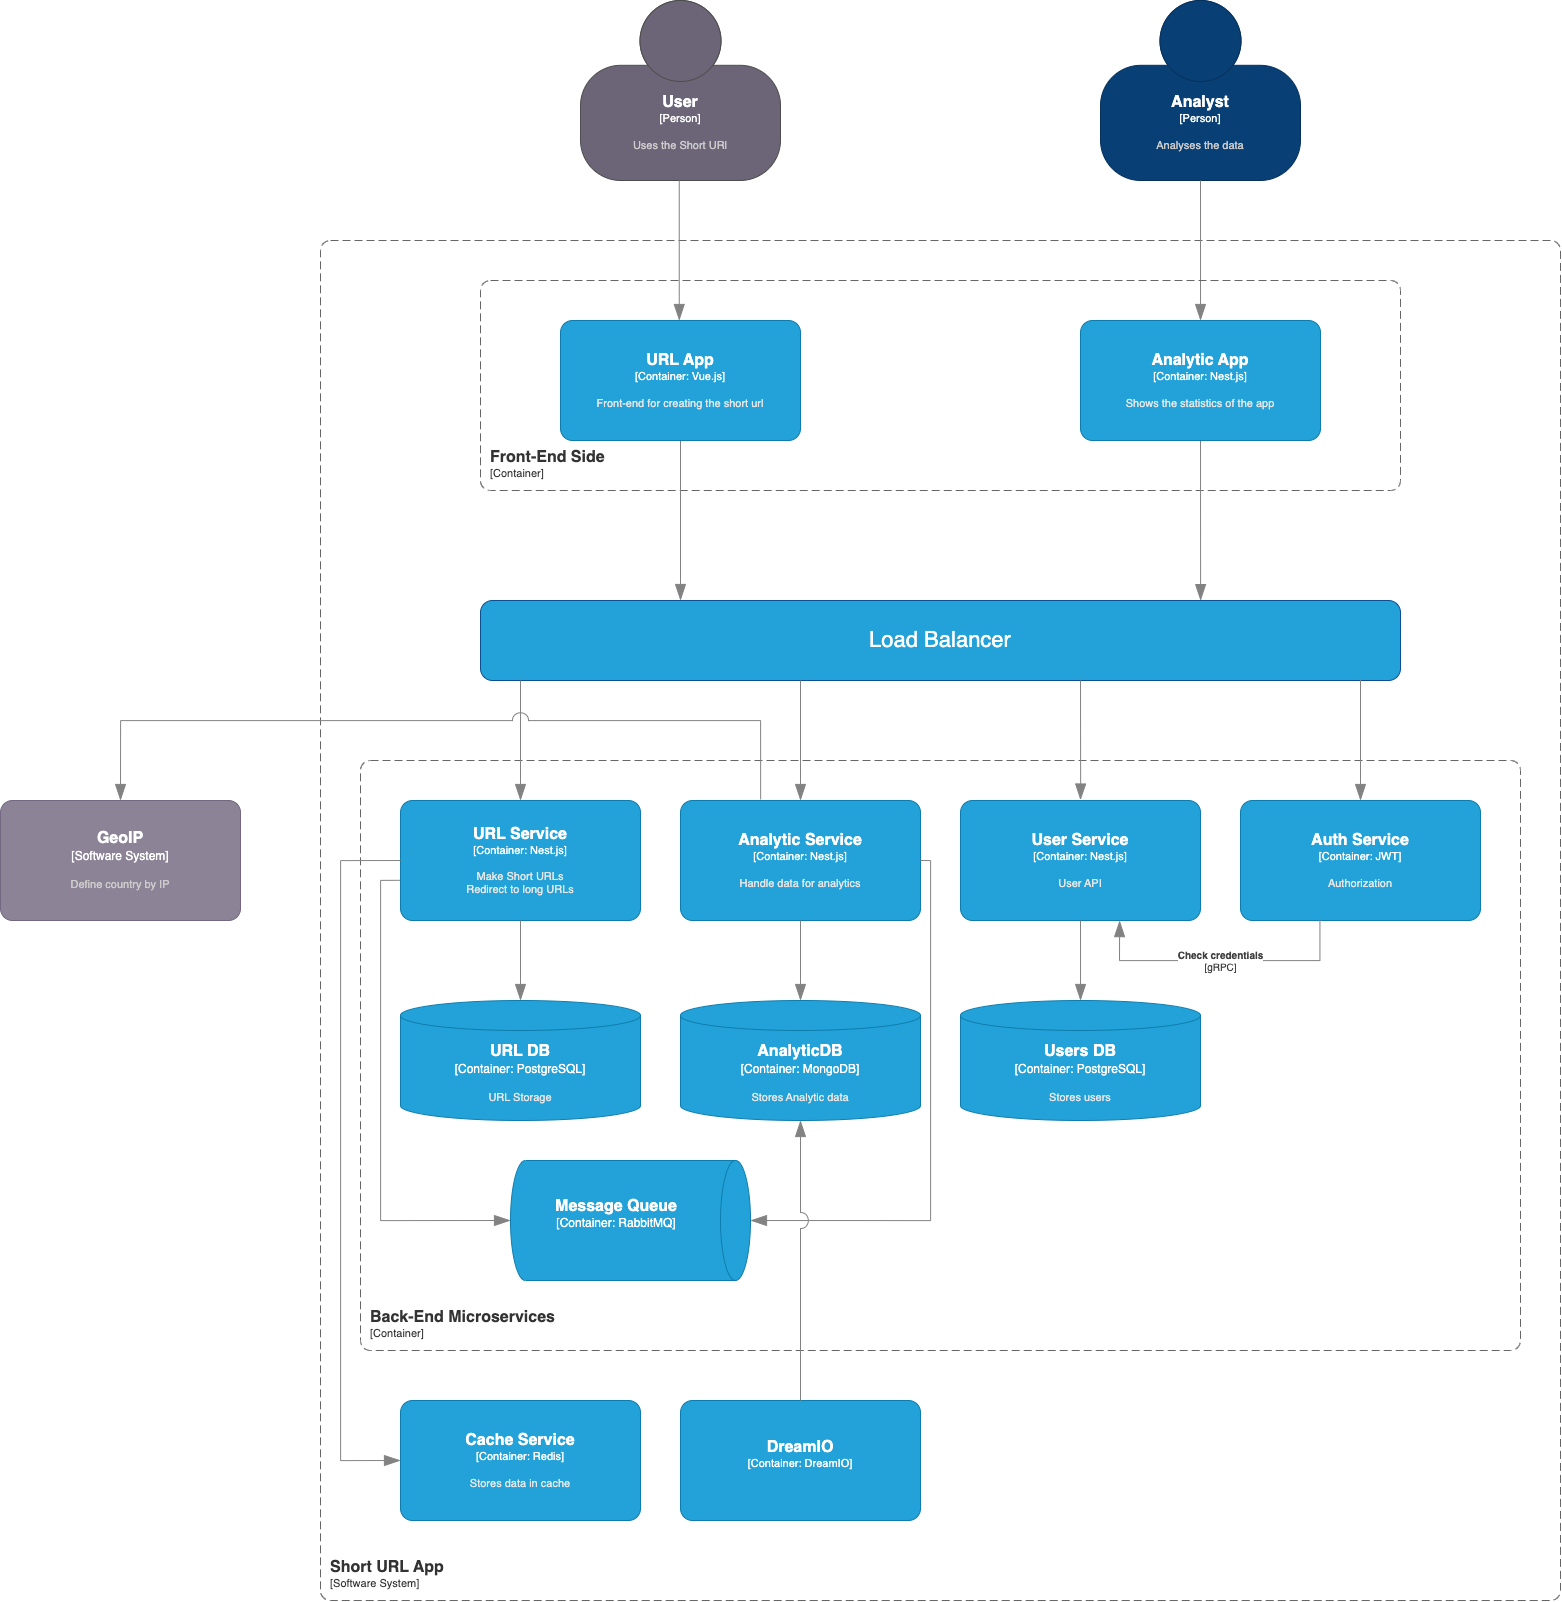
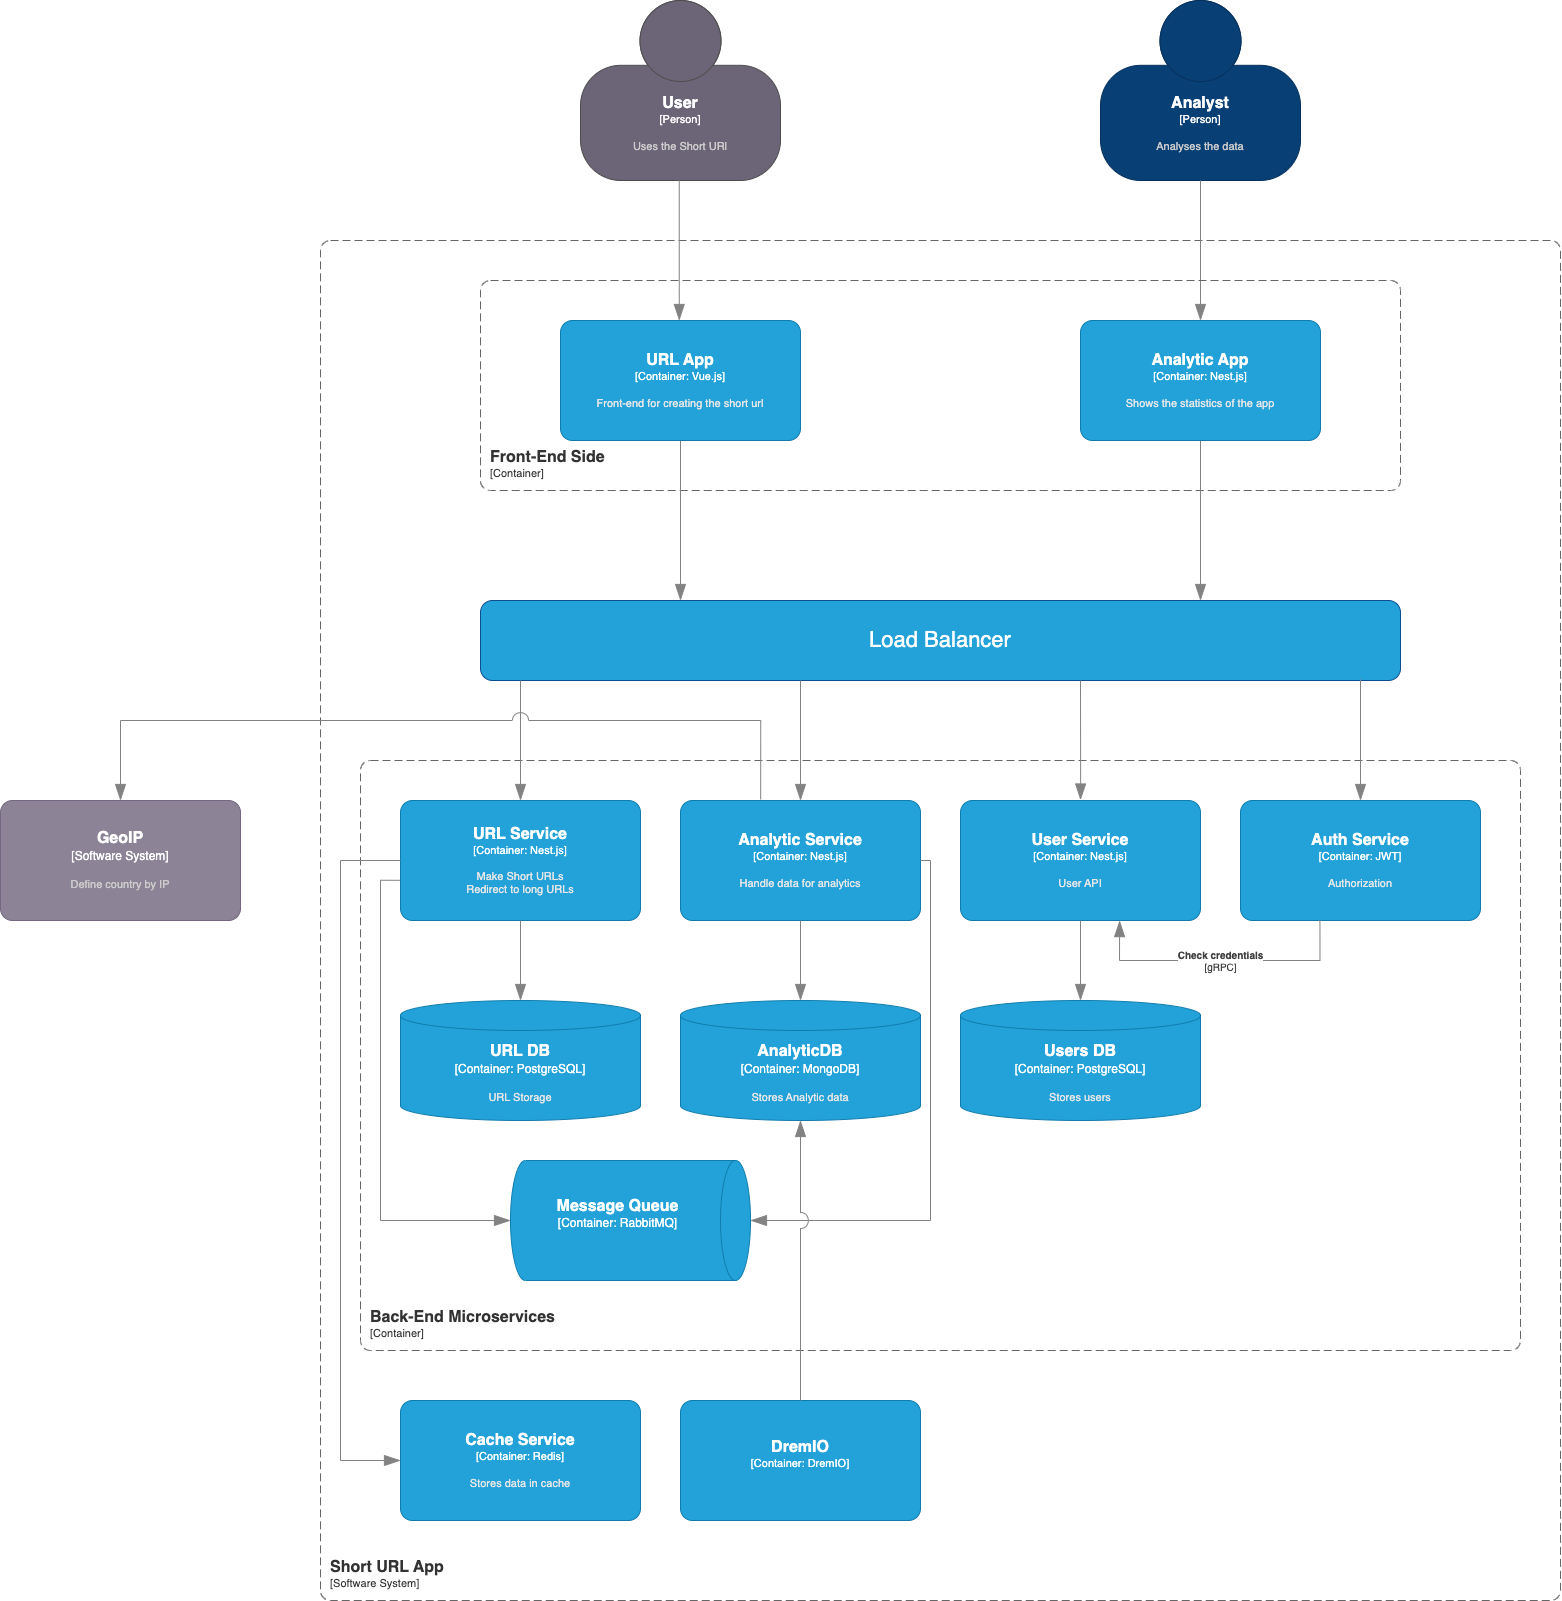
feat(analytics): create url analytics
- POST `/analytics/url` has been created
- updated doc typos

Closes #79

diff --git a/apps/analytics/src/analytics.controller.ts b/apps/analytics/src/analytics.controller.ts
@@ -1,12 +1,29 @@
-import { Controller, Get } from '@nestjs/common';
+import { Controller, Post, Body, UseFilters } from '@nestjs/common';
+import { ApiOperation, ApiResponse } from '@nestjs/swagger';
+import { HttpExceptionFilter } from '@app/common';
+
 import { AnalyticsService } from './analytics.service';
+import { CreateUrlAnalyticsDto } from './dto';
+
 
 @Controller('analytics')
+@UseFilters(HttpExceptionFilter)
 export class AnalyticsController {
   constructor(private readonly analyticsService: AnalyticsService) {}
 
-  @Get()
-  getHello(): string {
-    return this.analyticsService.getHello();
+  @Post('/url')
+  @ApiOperation({
+    summary: 'Create url analytics',
+    description: `Initial point to count analytics.
+      The route creates a record and later this record is used for incrementing counters`
+  })
+  @ApiResponse({
+    status: 200,
+    description: 'Record was created successful'
+  })
+  async createUrlAnalytics(
+    @Body() createUrlAnalyticsDto: CreateUrlAnalyticsDto
+  ): Promise<void> {
+    await this.analyticsService.createUrlAnalytics(createUrlAnalyticsDto);
   }
 }

diff --git a/apps/analytics/src/analytics.module.ts b/apps/analytics/src/analytics.module.ts
@@ -1,13 +1,17 @@
 import { Module } from '@nestjs/common';
-import { DatabaseModule } from '@app/common';
+import { DatabaseModule, LoggerModule } from '@app/common';
 
 import { AnalyticsController } from './analytics.controller';
 import { AnalyticsService } from './analytics.service';
 import { Analytics } from './analytics.entity';
 import { AnalyticsRepository } from './analytics.repository';
+import { appConfig } from './config';
 
 @Module({
-  imports: [DatabaseModule.forRoot({ type: 'mongodb', entities: [Analytics] })],
+  imports: [
+    DatabaseModule.forRoot({ type: 'mongodb', entities: [Analytics] }),
+    LoggerModule.registry(appConfig.logger.namespace),
+  ],
   controllers: [AnalyticsController],
   providers: [AnalyticsService, AnalyticsRepository],
 })

diff --git a/apps/analytics/src/analytics.service.ts b/apps/analytics/src/analytics.service.ts
@@ -1,6 +1,7 @@
 import { Injectable } from '@nestjs/common';
 
 import { AnalyticsRepository } from './analytics.repository';
+import { UrlAnalytics } from './interfaces';
 
 @Injectable()
 export class AnalyticsService {
@@ -8,8 +9,11 @@ export class AnalyticsService {
     private readonly analyticsRepository: AnalyticsRepository,
   ) {}
 
-  getHello(): string {
-    this.analyticsRepository.save({ urlId: '1', clicks: 1 });
-    return 'Hello World!';
+  async getCountryByIp(): Promise<void> {
+    throw new Error('Not implemented yet');
+  }
+
+  async createUrlAnalytics({ userId, urlId }: UrlAnalytics): Promise<UrlAnalytics> {
+    return await this.analyticsRepository.save({ userId, urlId });
   }
 }

diff --git a/apps/analytics/src/analytics.entity.ts b/apps/analytics/src/analytics.entity.ts
@@ -1,6 +1,6 @@
 import {
   Entity,
-  PrimaryGeneratedColumn,
+  ObjectIdColumn,
   Column,
   CreateDateColumn,
   UpdateDateColumn,
@@ -8,14 +8,17 @@ import {
 
 @Entity()
 export class Analytics {
-  @PrimaryGeneratedColumn('uuid')
+  @ObjectIdColumn()
   id: string;
+
+  @Column()
+  userId: string;
 
   @Column()
   urlId: string;
 
-  @Column()
-  clicks: number;
+  @Column('number')
+  clicks: number = 0;
 
   @CreateDateColumn()
   createdAt: Date;

diff --git a/apps/analytics/src/dto/create-url-analytics.dto.ts b/apps/analytics/src/dto/create-url-analytics.dto.ts
@@ -1,0 +1,12 @@
+import { IsString, IsOptional } from 'class-validator';
+import { ApiProperty } from '@nestjs/swagger';
+
+export class CreateUrlAnalyticsDto {
+  @IsString()
+  @ApiProperty({ example: 'userId', description: 'User\'s ID from UserService' })
+  userId: string;
+
+  @IsString()
+  @ApiProperty({ example: 'urlId', description: 'URL\'s ID from UrlService' })
+  urlId: string;
+}

diff --git a/apps/analytics/src/config/app.config.ts b/apps/analytics/src/config/app.config.ts
@@ -4,4 +4,7 @@ export const appConfig = {
     externalPort: Number(process.env.EXTERNAL_PORT),
     internalPort: Number(process.env.INTERNAL_PORT),
   },
+  logger: {
+    namespace: 'analytics',
+  }
 };

diff --git a/apps/analytics/src/interfaces/url-analytics.interface.ts b/apps/analytics/src/interfaces/url-analytics.interface.ts
@@ -1,0 +1,4 @@
+export interface UrlAnalytics {
+  userId: string;
+  urlId: string;
+}

diff --git a/apps/analytics/src/dto/index.ts b/apps/analytics/src/dto/index.ts
@@ -1,0 +1,1 @@
+export * from './create-url-analytics.dto';

diff --git a/apps/analytics/src/interfaces/index.ts b/apps/analytics/src/interfaces/index.ts
@@ -1,0 +1,1 @@
+export * from './url-analytics.interface';

diff --git a/adr/ADR-002-analytic-service/README.md b/adr/ADR-002-analytic-service/README.md
@@ -14,10 +14,10 @@
 - клики по странам
 - клики по временным промежуткам
 - клики по браузерам
-Так же необходимо подключить dreamio для более гибкой работы с данными для аналитиков.
+Так же необходимо подключить dremio для более гибкой работы с данными для аналитиков.
 
 ## Consequences
 
 **Pros:**
 - уменьшается связность между сервисами
-- продвинутый инструмент для аналитиков - dreamio
+- продвинутый инструмент для аналитиков - dremio
